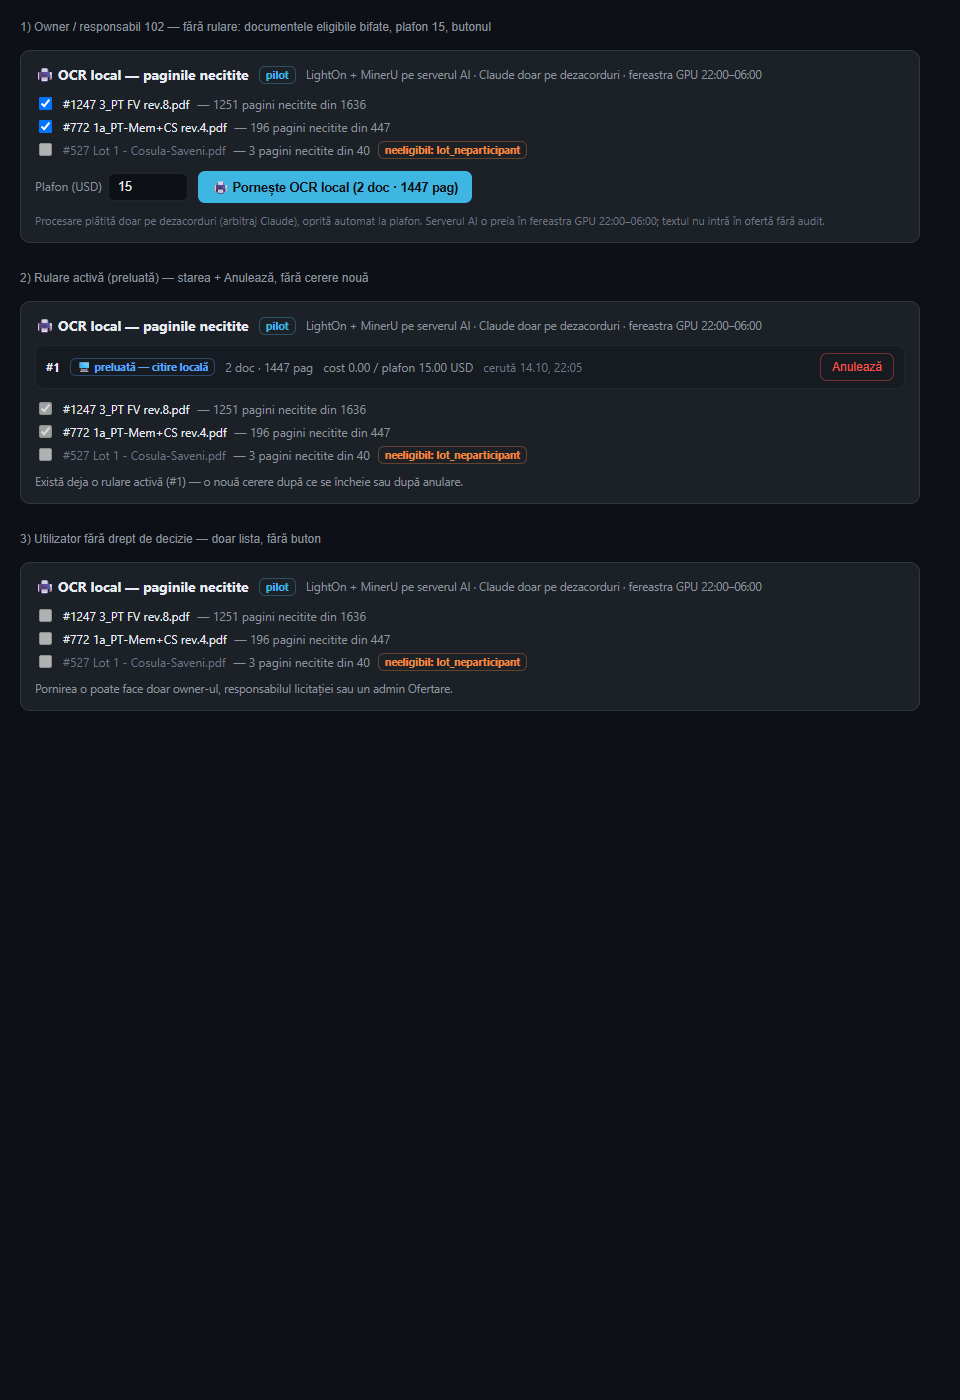
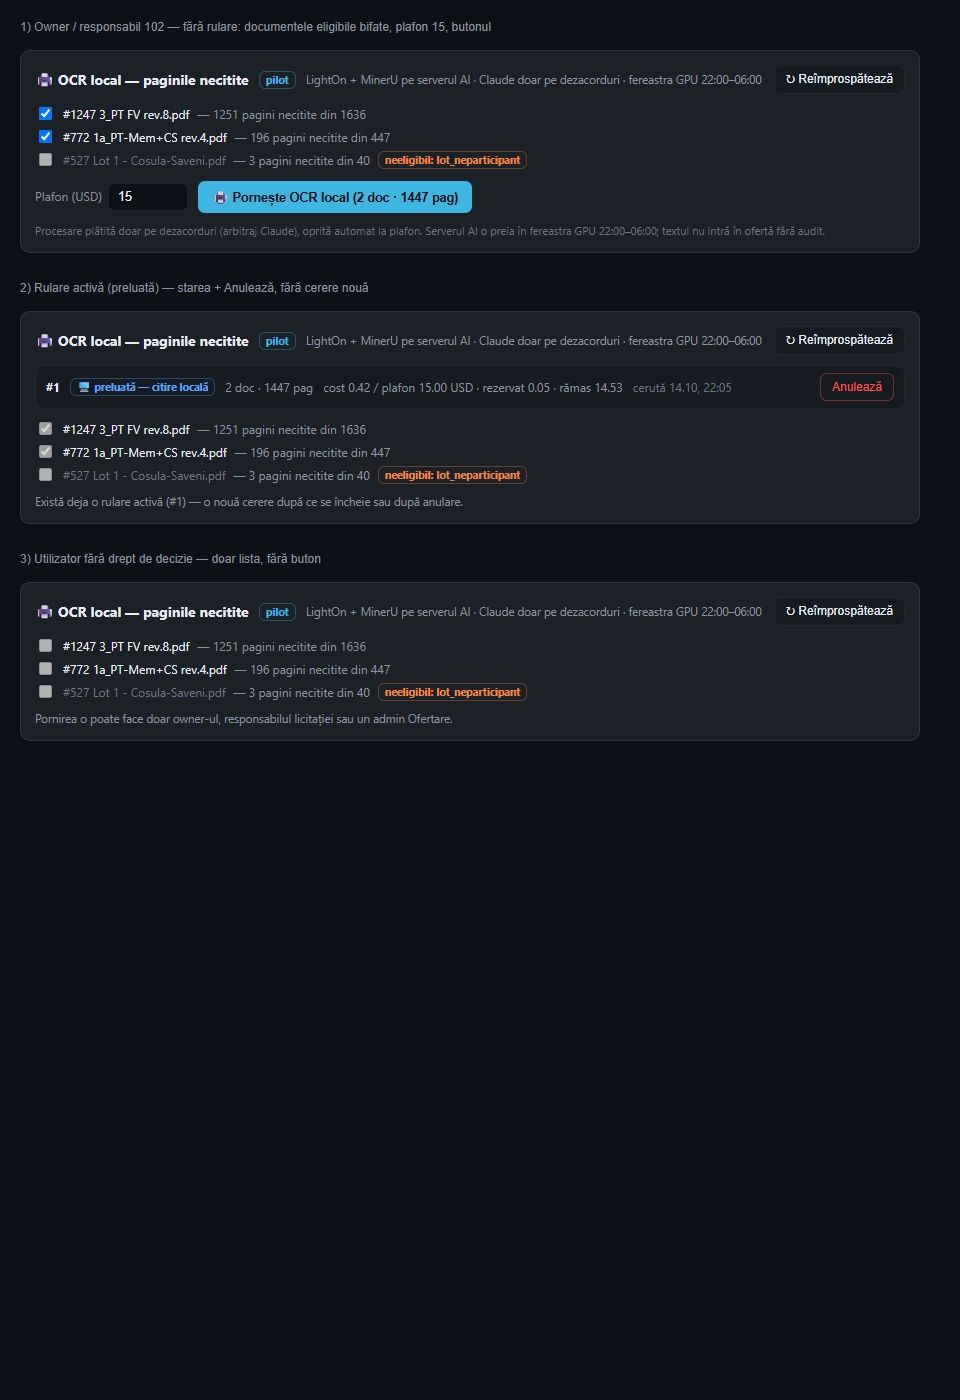
Ofertare #702 r2: dreptul cu eroare distincta, incarcari ordonate, limita 50, bugetul ramas, reimprospatare
Dupa r1 (Copilot GO cu fix-uri 2 P2, Jakarinos GO with fixes 4 P2):
- verificarea dreptului: incarcare / refuz / eroare tehnica afisate distinct, reincercare prin
  „↻ Reimprospateaza”; fail-closed (doar true deschide butonul)
- incarcari suprapuse: doar ultima (contor de generatie) isi aplica rezultatul; eroarea de
  eligibilitate lasa documentele neeligibile
- cel mult 50 de documente (limita fn_ofertare_ocr_cerere): butonul dezactivat + mesaj; bifele
  implicite, cel mult 50; bifele pastrate doar pe documente inca eligibile
- bugetul: abandonat afisat distinct + ramas = plafon - decontat - rezervat - abandonat (ca in BD)
- reimprospatare: buton, la revenirea in fereastra, dupa o eroare la cerere / anulare, si la
  modificarile din fila Loturi (reloadKey)
Teste: vitest 10; build OK. Captura actualizata.

Changed region(s): [[0.0312, 0.0307, 0.9375, 0.5221], [0.8438, 0.43, 0.9062, 0.4607], [0.8438, 0.0307, 0.9062, 0.0614]]

diff --git a/src/OfertareOcrLocal.jsx b/src/OfertareOcrLocal.jsx
@@ -12,7 +12,7 @@
 // Nimic nu pornește singur: serverul AI preia rularea doar când omul rulează `python -m ocr_local erp preia`, în fereastra GPU
 // (22:00–06:00), după „da pornire” al lui Răzvan. Promovarea textului în ofertă e separată (audit + „da promovare”).
 // ════════════════════════════════════════════════════════════════
-import { useState, useEffect, useCallback } from 'react'
+import { useState, useEffect, useCallback, useRef } from 'react'
 import { supabase } from './lib/supabase.js'
 
 const G = {
@@ -29,6 +29,10 @@ const S = {
 }
 export const FEREASTRA_GPU = '22:00–06:00'
 export const PLAFON_MAX = 15
+export const MAX_DOCUMENTE = 50   // limita din fn_ofertare_ocr_cerere (cardinality ≤ 50)
+// Bugetul rămas al unei rulări, exact ca în BD: plafon − (decontat + rezervat + abandonat). Abandonatul nu e cost decontat,
+// dar consumă plafonul (review PR #702 Jakarinos P2).
+export const bugetRamas = r => Math.max(0, (Number(r?.plafon_usd) || 0) - (Number(r?.cost_usd) || 0) - (Number(r?.cost_rezervat) || 0) - (Number(r?.cost_abandonat) || 0))
 export const STARE_RULARE = {
   ceruta:     ['⏳ cerută — așteaptă serverul AI', G.yellow],
   preluata:   ['🖥 preluată — citire locală', G.blue],
@@ -65,27 +69,31 @@ export const textConfirmare = (plafon, nrDoc, nrPag) =>
   `${nrDoc} document(e), ${nrPag} pagini necitite. Citirea pe serverul AI se face în fereastra GPU ${FEREASTRA_GPU}; ` +
   `nimic nu intră în ofertă fără audit.\n\nContinui?`
 
-export default function OcrLocalSection({ licitatieId, profile, showToast }) {
-  const [drept, setDrept] = useState(null)           // { licId, permis }
+export default function OcrLocalSection({ licitatieId, profile, showToast, reloadKey = 0 }) {
+  const [drept, setDrept] = useState(null)           // { licId, permis } | { licId, eroare }
+  const [dreptTry, setDreptTry] = useState(0)
   const [docs, setDocs] = useState(null)
   const [sel, setSel] = useState({})                 // document_id → true
   const [plafon, setPlafon] = useState(String(PLAFON_MAX))
   const [rulari, setRulari] = useState([])
   const [busy, setBusy] = useState(false)
   const [eroare, setEroare] = useState(null)
+  const gen = useRef(0)                              // doar ultima încărcare își aplică rezultatul (review PR #702 Copilot P2)
   const toast = (m, t) => (showToast ? showToast(m, t) : null)
 
+  // Dreptul de decizie: încărcare / refuz / EROARE TEHNICĂ afișate distinct (review PR #702 P2); fail-closed: doar true deschide.
   useEffect(() => {
     let activ = true; setDrept(null)
     if (licitatieId && profile?.id) supabase.rpc('fn_ofertare_source_pack_poate_decide', { p_licitatie_id: licitatieId })
-      .then(({ data, error }) => { if (activ && !error) setDrept({ licId: licitatieId, permis: data === true }) })
-      .catch(() => {})
+      .then(({ data, error }) => { if (activ) setDrept(error ? { licId: licitatieId, eroare: error.message || 'eroare' } : { licId: licitatieId, permis: data === true }) })
+      .catch(e => { if (activ) setDrept({ licId: licitatieId, eroare: e?.message || 'eroare de rețea' }) })
     return () => { activ = false }
-  }, [licitatieId, profile?.id])
+  }, [licitatieId, profile?.id, dreptTry])
   const poateDecide = drept?.licId === licitatieId && drept?.permis === true
 
   const incarca = useCallback(async () => {
     if (!licitatieId) return
+    const g = ++gen.current
     setEroare(null)
     const [d, r] = await Promise.all([
       supabase.from('ofertare_documente_atribuire').select('id, nume_original, pagini, pagini_necitite, lot_stare')
@@ -93,33 +101,47 @@ export default function OcrLocalSection({ licitatieId, profile, showToast }) {
       supabase.from('ofertare_ocr_rulari').select('id, stare, plafon_usd, cost_usd, cost_rezervat, cost_abandonat, pornit_la, preluata_la, terminata_la, oprit_motiv, documente')
         .eq('licitatie_id', licitatieId).order('id', { ascending: false }).limit(5),
     ])
+    if (g !== gen.current) return
     if (d.error || r.error) { setEroare((d.error || r.error).message); setDocs([]); return }
-    // eligibilitatea, paginat (licitațiile mari au sute de documente)
-    const elig = []
+    // eligibilitatea, paginat (licitațiile mari au sute de documente); o eroare = documentele rămân neeligibile (fail-closed)
+    const elig = []; let errElig = null
     for (let a = 0; ; a += 1000) {
       const { data, error } = await supabase.rpc('fn_ofertare_eligibilitate', { p_licitatie_id: licitatieId }).order('document_id').range(a, a + 999)
-      if (error) { setEroare(error.message); break }
+      if (error) { errElig = error.message; break }
       elig.push(...(data || [])); if (!data || data.length < 1000) break
     }
-    const cand = documenteCandidate(d.data, elig)
-    setDocs(cand); setRulari(r.data || [])
-    setSel(s => Object.keys(s).length ? s : Object.fromEntries(cand.filter(x => x.eligibil).map(x => [x.id, true])))
+    if (g !== gen.current) return
+    const cand = documenteCandidate(d.data, errElig ? [] : elig)
+    setDocs(cand); setRulari(r.data || []); if (errElig) setEroare('Eligibilitate: ' + errElig)
+    // bifele: doar documentele încă eligibile; implicit toate eligibile (cel mult limita RPC-ului)
+    setSel(s => {
+      const elg = new Set(cand.filter(x => x.eligibil).map(x => x.id))
+      const pastrate = Object.fromEntries(Object.entries(s).filter(([k, v]) => v && elg.has(Number(k))))
+      return Object.keys(pastrate).length ? pastrate : Object.fromEntries([...elg].slice(0, MAX_DOCUMENTE).map(id => [id, true]))
+    })
   }, [licitatieId])
-  useEffect(() => { incarca() }, [incarca])
+  useEffect(() => { incarca() }, [incarca, reloadKey])
+  // stare schimbată din alt tab (cerere / anulare / serverul AI): reîncărcare la revenirea în fereastră (review PR #702 Jakarinos P2)
+  useEffect(() => {
+    const f = () => { if (document.visibilityState === 'visible') incarca() }
+    document.addEventListener('visibilitychange', f); window.addEventListener('focus', f)
+    return () => { document.removeEventListener('visibilitychange', f); window.removeEventListener('focus', f) }
+  }, [incarca])
 
   const activa = rulari.find(x => ACTIVE.includes(x.stare))
   const alese = (docs || []).filter(d => d.eligibil && sel[d.id])
   const nrPag = alese.reduce((a, d) => a + d.nrPagini, 0)
   const errPlafon = eroarePlafon(plafon)
+  const prea = alese.length > MAX_DOCUMENTE
 
   const porneste = async () => {
-    if (busy || !poateDecide || activa || !alese.length || errPlafon) return
+    if (busy || !poateDecide || activa || !alese.length || errPlafon || prea) return
     const p = Number(String(plafon).trim().replace(',', '.'))
     if (!window.confirm(textConfirmare(p.toFixed(2), alese.length, nrPag))) return
     setBusy(true)
     const { data, error } = await supabase.rpc('fn_ofertare_ocr_cerere', { p_licitatie_id: licitatieId, p_document_ids: alese.map(d => d.id), p_plafon_usd: p })
     setBusy(false)
-    if (error) { setEroare(error.message); toast('OCR local: ' + error.message, 'err'); return }
+    if (error) { toast('OCR local: ' + error.message, 'err'); await incarca(); setEroare(error.message); return }  // starea se reîncarcă (alt tab, server)
     toast(`OCR local cerut: rularea #${data?.rulare_id} (plafon ${p.toFixed(2)} USD)`, 'ok'); incarca()
   }
   const anuleaza = async (r) => {
@@ -127,7 +149,7 @@ export default function OcrLocalSection({ licitatieId, profile, showToast }) {
     setBusy(true)
     const { error } = await supabase.rpc('fn_ofertare_ocr_anuleaza', { p_rulare_id: r.id })
     setBusy(false)
-    if (error) { setEroare(error.message); toast('Anulare: ' + error.message, 'err'); return }
+    if (error) { toast('Anulare: ' + error.message, 'err'); await incarca(); setEroare(error.message); return }
     toast(`Rularea #${r.id} anulată`, 'ok'); incarca()
   }
 
@@ -137,7 +159,9 @@ export default function OcrLocalSection({ licitatieId, profile, showToast }) {
         <div style={{ fontSize:14, fontWeight:700, color:G.text }}>🖨 OCR local — paginile necitite</div>
         <span style={S.badge(G.ofertare)}>pilot</span>
         <span style={{ fontSize:11.5, color:G.muted }}>LightOn + MinerU pe serverul AI · Claude doar pe dezacorduri · fereastra GPU {FEREASTRA_GPU}</span>
+        <button style={{ ...S.btn, marginLeft:'auto' }} disabled={busy} onClick={() => { setDreptTry(k => k + 1); incarca() }} title="Reîncarcă starea (alt tab, serverul AI)">↻ Reîmprospătează</button>
       </div>
+      {drept?.licId === licitatieId && drept?.eroare && <div style={{ marginTop:8, fontSize:12, color:G.red }}>⚠ Dreptul de pornire nu s-a putut verifica: {drept.eroare} — butonul rămâne ascuns; „↻ Reîmprospătează” reîncearcă.</div>}
       {eroare && <div style={{ marginTop:8, fontSize:12, color:G.red }}>⚠ {eroare}</div>}
 
       {rulari.length > 0 && (
@@ -149,7 +173,7 @@ export default function OcrLocalSection({ licitatieId, profile, showToast }) {
               <div key={r.id} style={{ display:'flex', alignItems:'center', gap:10, flexWrap:'wrap', fontSize:12, color:G.text, background:G.surface, border:`1px solid ${G.border2}`, borderRadius:8, padding:'7px 10px' }}>
                 <b>#{r.id}</b><span style={S.badge(c)}>{et}</span>
                 <span style={{ color:G.muted }}>{(r.documente || []).length} doc · {pag} pag</span>
-                <span style={{ color:G.muted }}>cost {usd(r.cost_usd)} / plafon {usd(r.plafon_usd)} USD{Number(r.cost_rezervat) > 0 ? ` (rezervat ${usd(r.cost_rezervat)})` : ''}</span>
+                <span style={{ color:G.muted }}>cost {usd(r.cost_usd)} / plafon {usd(r.plafon_usd)} USD{Number(r.cost_rezervat) > 0 ? ` · rezervat ${usd(r.cost_rezervat)}` : ''}{Number(r.cost_abandonat) > 0 ? ` · abandonat ${usd(r.cost_abandonat)}` : ''} · rămas {usd(bugetRamas(r))}</span>
                 <span style={{ color:G.dim }}>cerută {fmtData(r.pornit_la)}{r.terminata_la ? ` · încheiată ${fmtData(r.terminata_la)}` : ''}</span>
                 {r.oprit_motiv && <span style={{ color:G.orange }}>— {r.oprit_motiv}</span>}
                 {poateDecide && ACTIVE.includes(r.stare) && <button style={{ ...S.btn, marginLeft:'auto', color:G.red, borderColor:G.red + '66' }} disabled={busy} onClick={() => anuleaza(r)}>Anulează</button>}
@@ -176,7 +200,9 @@ export default function OcrLocalSection({ licitatieId, profile, showToast }) {
           </div>
 
           {!poateDecide ? (
-            <div style={{ marginTop:10, fontSize:11.5, color:G.muted }}>Pornirea o poate face doar owner-ul, responsabilul licitației sau un admin Ofertare.</div>
+            drept?.licId !== licitatieId ? <div style={{ marginTop:10, fontSize:11.5, color:G.muted }}>Se verifică dreptul de pornire…</div>
+            : drept?.eroare ? null  // eroarea tehnică e afișată sus, cu reîncercare
+            : <div style={{ marginTop:10, fontSize:11.5, color:G.muted }}>Pornirea o poate face doar owner-ul, responsabilul licitației sau un admin Ofertare.</div>
           ) : activa ? (
             <div style={{ marginTop:10, fontSize:11.5, color:G.muted }}>Există deja o rulare activă (#{activa.id}) — o nouă cerere după ce se încheie sau după anulare.</div>
           ) : (
@@ -184,10 +210,11 @@ export default function OcrLocalSection({ licitatieId, profile, showToast }) {
               <label style={{ fontSize:12, color:G.muted }}>Plafon (USD)
                 <input style={{ ...S.input, width:80, marginLeft:6 }} value={plafon} onChange={e => setPlafon(e.target.value)} inputMode="decimal" />
               </label>
-              <button style={{ ...S.btnP, opacity: (busy || !alese.length || errPlafon) ? 0.5 : 1 }} disabled={busy || !alese.length || !!errPlafon} onClick={porneste}>
+              <button style={{ ...S.btnP, opacity: (busy || !alese.length || errPlafon || prea) ? 0.5 : 1 }} disabled={busy || !alese.length || !!errPlafon || prea} onClick={porneste}>
                 {busy ? 'Se trimite…' : `🖨 Pornește OCR local (${alese.length} doc · ${nrPag} pag)`}
               </button>
               {errPlafon && <span style={{ fontSize:11.5, color:G.orange }}>{errPlafon}</span>}
+              {prea && <span style={{ fontSize:11.5, color:G.orange }}>Cel mult {MAX_DOCUMENTE} documente într-o rulare (ai bifat {alese.length}) — debifează sau împarte în mai multe rulări.</span>}
               <span style={{ fontSize:11, color:G.dim, flexBasis:'100%' }}>
                 Procesare plătită doar pe dezacorduri (arbitraj Claude), oprită automat la plafon. Serverul AI o preia în fereastra GPU {FEREASTRA_GPU}; textul nu intră în ofertă fără audit.
               </span>

diff --git a/src/OfertareLicitatii.jsx b/src/OfertareLicitatii.jsx
@@ -3642,6 +3642,7 @@ function LicitatieDetailModal({ licitatie: l, profile, echipa = [], onChanged, o
   // vadă și în „Acoperirea cerințelor" — altfel omul bifa sus și căuta manual, jos, același
   // număr de ordine. Se golește când schimbi licitația.
   const [selCerinte, setSelCerinte] = useState([])
+  const [ocrReload, setOcrReload] = useState(0)   // OCR local: eligibilitatea se schimbă din Loturi → reîncarcă secțiunea OCR
   const [packImportKey, setPackImportKey] = useState(0)   // P0c: după import din Source Pack, registrul se reîncarcă
   useEffect(() => { setSelCerinte([]) }, [l.id])
   const [clar, setClar] = useState(null)
@@ -3798,9 +3799,9 @@ function LicitatieDetailModal({ licitatie: l, profile, echipa = [], onChanged, o
             {tab === 'formulare' && <FormulareRegistruSection licitatie={l} profile={profile} showToast={showToast} />}
             {tab === 'documente' && <><OfertareTipareDeclansate licitatie={l} showToast={showToast} onCreat={() => setTab('clarificari')} /><DocumenteSection licitatie={l} profile={profile} onChanged={onChanged}
               intrareDocument={intrareDocument} onIntrareConsumata={onIntrareConsumata} showToast={showToast} onGoClarificari={() => setTab('clarificari')} onGoLoturi={() => setTab('loturi')} /></>}
-            {tab === 'loturi' && <OfertareLoturi licitatieId={l.id} onSchimbare={onChanged} />}
+            {tab === 'loturi' && <OfertareLoturi licitatieId={l.id} onSchimbare={() => { setOcrReload(k => k + 1); onChanged?.() }} />}
             {/* Pilotul OCR local (14.10.2026): paginile necitite ale documentelor ELIGIBILE (poarta pe loturi de mai sus) */}
-            {tab === 'loturi' && <OcrLocalSection key={l.id} licitatieId={l.id} profile={profile} showToast={showToast} />}
+            {tab === 'loturi' && <OcrLocalSection key={l.id} licitatieId={l.id} profile={profile} showToast={showToast} reloadKey={ocrReload} />}
             {tab === 'garantie' && <>
               <GarantieSection licitatie={l} profile={profile} onChanged={onChanged} />
               {/* GBE (garanția de bună execuție) — aceeași evidență ca în Administrativ → Contracte comerciale (09.09.2026) */}

diff --git a/src/OfertareOcrLocal.test.jsx b/src/OfertareOcrLocal.test.jsx
@@ -3,7 +3,16 @@ import { renderToStaticMarkup } from 'react-dom/server'
 import { describe, expect, it, vi } from 'vitest'
 
 vi.mock('./lib/supabase.js', () => ({ supabase: {} }))
-import OcrLocalSection, { eroarePlafon, documenteCandidate, textConfirmare, FEREASTRA_GPU, PLAFON_MAX, STARE_RULARE } from './OfertareOcrLocal.jsx'
+import OcrLocalSection, { eroarePlafon, documenteCandidate, textConfirmare, bugetRamas, FEREASTRA_GPU, PLAFON_MAX, MAX_DOCUMENTE, STARE_RULARE } from './OfertareOcrLocal.jsx'
+
+describe('OCR local — limitele RPC-ului și bugetul (review PR #702)', () => {
+  it('cel mult 50 de documente într-o cerere, ca fn_ofertare_ocr_cerere', () => expect(MAX_DOCUMENTE).toBe(50))
+  it('bugetul rămas scade și abandonatul și rezervatul, ca în BD; nu coboară sub 0', () => {
+    expect(bugetRamas({ plafon_usd: 15, cost_usd: 0, cost_rezervat: 0, cost_abandonat: 15 })).toBe(0)
+    expect(bugetRamas({ plafon_usd: 15, cost_usd: '1.2500', cost_rezervat: '0.0500', cost_abandonat: '0.2000' })).toBeCloseTo(13.5)
+    expect(bugetRamas({ plafon_usd: 1, cost_usd: 2 })).toBe(0)
+  })
+})
 
 describe('OCR local — plafonul, exact regula din fn_ofertare_ocr_cerere', () => {
   it('acceptă (0, 15] cu cel mult 2 zecimale, inclusiv virgula', () => {
